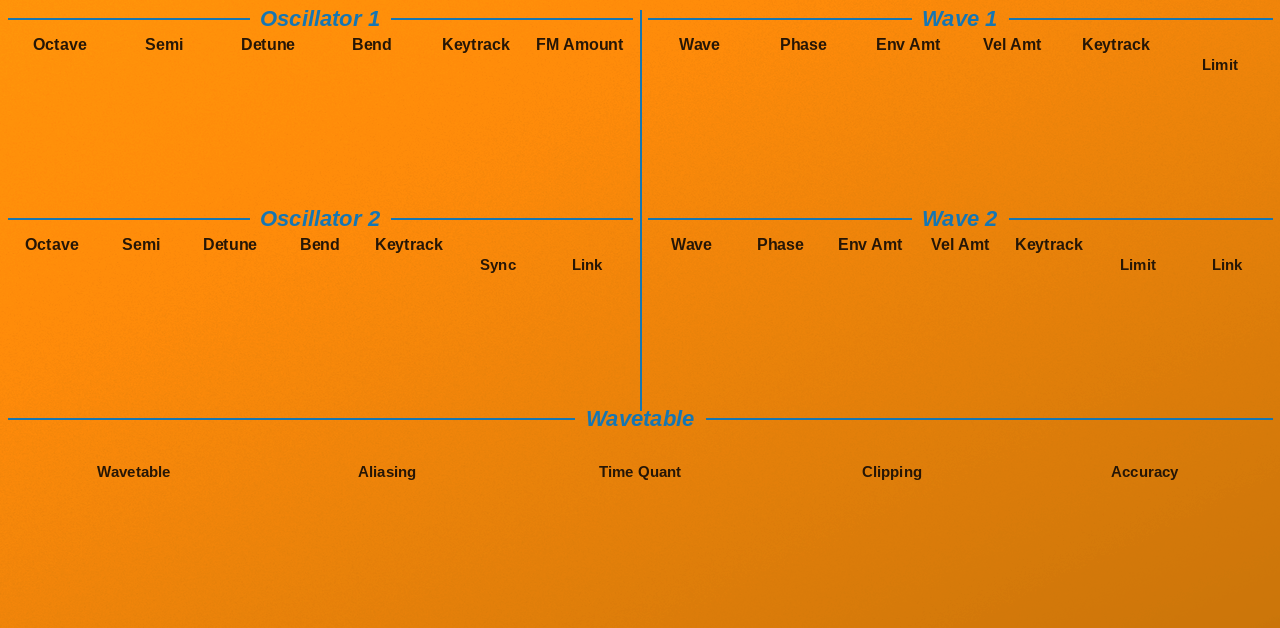
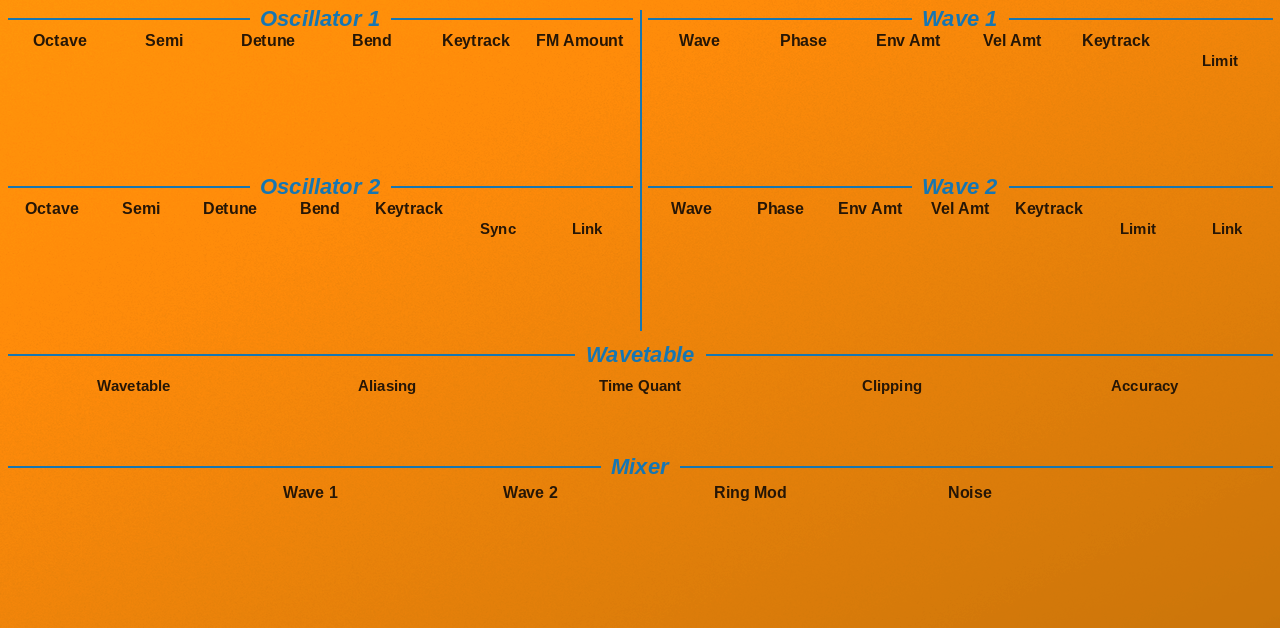
Skin: Mixer moves to the OSC page (with its own Q-Link set); MIX & ARP becomes AMP & ARP
Claude-Session: https://claude.ai/code/session_01NnBRfCftY3vdpsy8azUhpq

diff --git a/tools/make_skin.py b/tools/make_skin.py
@@ -205,39 +205,38 @@ p.widgets.append('frame x=296 y=%d w=976 h=548 title="SOUNDS"' % (62 + Y86))
 p.widgets.append('list x=312 y=%d w=950 h=486 cols=3 rows=10 gap=6 th=41 key=patch_slot order=cols' % (112 + Y86))
 p.done()
 
-# ---------------------------------------------------------------- OSC
+# ---------------------------------------------------------------- OSC (oscillators, waves, wavetable, mixer)
 p = Page("OSC", ["O1Octave", "O1Semi", "O1Detune", "O1BendRange", "O1KeyTrack", "O1FmAmount", "-", "-",
                  "O2Octave", "O2Semi", "O2Detune", "O2BendRange", "O2KeyTrack", "-", "-", "-"],
          ("Waves", ["W1StartW", "W1StartP", "W1EnvAmount", "W1EnvVelAmount", "W1Keytrack", "-", "-", "-",
-                    "W2StartW", "W2StartP", "W2EnvAmount", "W2EnvVelAmount", "W2Keytrack", "-", "-", "-"]))
+                    "W2StartW", "W2StartP", "W2EnvAmount", "W2EnvVelAmount", "W2Keytrack", "-", "-", "-"]),
+         ("Mixer", ["MixW1", "MixW2", "MixRingMod", "MixNoise"]))
 p.heading(8, 4, 624, "Oscillator 1")
-row(p, 8, 632, 92, [("knob", "O1Octave", "Octave"), ("knob", "O1Semi", "Semi"), ("knob", "O1Detune", "Detune"), ("knob", "O1BendRange", "Bend"),
+row(p, 8, 632, 88, [("knob", "O1Octave", "Octave"), ("knob", "O1Semi", "Semi"), ("knob", "O1Detune", "Detune"), ("knob", "O1BendRange", "Bend"),
                     ("knob", "O1KeyTrack", "Keytrack"), ("knob", "O1FmAmount", "FM Amount")])
-p.vline(640, 10, 410)
+p.vline(640, 10, 330)
 p.heading(648, 4, 624, "Wave 1")
-row(p, 648, 1272, 92, [("knob", "W1StartW", "Wave"), ("knob", "W1StartP", "Phase"), ("knob", "W1EnvAmount", "Env Amt"), ("knob", "W1EnvVelAmount", "Vel Amt"),
+row(p, 648, 1272, 88, [("knob", "W1StartW", "Wave"), ("knob", "W1StartP", "Phase"), ("knob", "W1EnvAmount", "Env Amt"), ("knob", "W1EnvVelAmount", "Vel Amt"),
                        ("knob", "W1Keytrack", "Keytrack"), ("toggle", "W1Limit", "Limit")])
-p.heading(8, 204, 624, "Oscillator 2")
-row(p, 8, 632, 292, [("knob", "O2Octave", "Octave"), ("knob", "O2Semi", "Semi"), ("knob", "O2Detune", "Detune"), ("knob", "O2BendRange", "Bend"),
+p.heading(8, 172, 624, "Oscillator 2")
+row(p, 8, 632, 256, [("knob", "O2Octave", "Octave"), ("knob", "O2Semi", "Semi"), ("knob", "O2Detune", "Detune"), ("knob", "O2BendRange", "Bend"),
                      ("knob", "O2KeyTrack", "Keytrack"), ("toggle", "O2Sync", "Sync"), ("toggle", "O2Link", "Link")])
-p.heading(648, 204, 624, "Wave 2")
-row(p, 648, 1272, 292, [("knob", "W2StartW", "Wave"), ("knob", "W2StartP", "Phase"), ("knob", "W2EnvAmount", "Env Amt"), ("knob", "W2EnvVelAmount", "Vel Amt"),
+p.heading(648, 172, 624, "Wave 2")
+row(p, 648, 1272, 256, [("knob", "W2StartW", "Wave"), ("knob", "W2StartP", "Phase"), ("knob", "W2EnvAmount", "Env Amt"), ("knob", "W2EnvVelAmount", "Vel Amt"),
                         ("knob", "W2Keytrack", "Keytrack"), ("toggle", "W2Limit", "Limit"), ("toggle", "W2Link", "Link")])
-p.heading(8, 404, 1264, "Wavetable")
-row(p, 8, 1272, 500, [("popup", "Wave", "Wavetable", 260, 118), ("popup", "Aliasing", "Aliasing", 150), ("popup", "TimeQuant", "Time Quant", 150),
+p.heading(8, 340, 1264, "Wavetable")
+row(p, 8, 1272, 414, [("popup", "Wave", "Wavetable", 260, 118), ("popup", "Aliasing", "Aliasing", 150), ("popup", "TimeQuant", "Time Quant", 150),
                       ("popup", "Clipping", "Clipping", 150), ("popup", "Accuracy", "Accuracy", 150)])
+p.heading(8, 452, 1264, "Mixer")
+row(p, 200, 1080, 540, [("knob", "MixW1", "Wave 1"), ("knob", "MixW2", "Wave 2"), ("knob", "MixRingMod", "Ring Mod"), ("knob", "MixNoise", "Noise")])
 p.done()
 
-# ---------------------------------------------------------------- MIX & ARP (mixer, amplifier, glide, voice, arpeggiator)
-p = Page("MIX & ARP", ["MixW1", "MixW2", "MixRingMod", "MixNoise", "AmpVolume", "AmpVelocity", "AmpKeytrack", "Pan",
-                       "PanKeytrack", "DePan", "-", "-"],
+# ---------------------------------------------------------------- AMP & ARP (amplifier, glide, arpeggiator)
+p = Page("AMP & ARP", ["AmpVolume", "AmpVelocity", "AmpKeytrack", "Pan", "PanKeytrack", "DePan", "-", "-"],
          ("Glide & Arp", ["GlideTime", "-", "-", "-", "ArpTempo", "ArpRange", "ArpUserPatternLength", "-"]))
-p.heading(8, 4, 626, "Mixer")
-row(p, 8, 634, 92, [("knob", "MixW1", "Wave 1"), ("knob", "MixW2", "Wave 2"), ("knob", "MixRingMod", "Ring Mod"), ("knob", "MixNoise", "Noise")])
-p.vline(646, 10, 170)
-p.heading(658, 4, 614, "Amplifier")
-row(p, 658, 1272, 92, [("knob", "AmpVolume", "Volume"), ("knob", "AmpVelocity", "Velocity"), ("knob", "AmpKeytrack", "Keytrack"), ("knob", "Pan", "Pan"),
-                       ("knob", "PanKeytrack", "Pan Keytrack"), ("knob", "DePan", "Pan Spread")])
+p.heading(8, 4, 1264, "Amplifier")
+row(p, 8, 1272, 92, [("knob", "AmpVolume", "Volume"), ("knob", "AmpVelocity", "Velocity"), ("knob", "AmpKeytrack", "Keytrack"), ("knob", "Pan", "Pan"),
+                     ("knob", "PanKeytrack", "Pan Keytrack"), ("knob", "DePan", "Pan Spread")])
 p.heading(8, 190, 1264, "Glide")
 row(p, 220, 1060, 288, [("toggle", "GlideEnabled", "Glide"), ("popup", "GlideType", "Type", 150), ("popup", "GlideMode", "Mode", 150), ("knob", "GlideTime", "Time")])
 p.heading(8, 380, 1264, "Arpeggiator")
